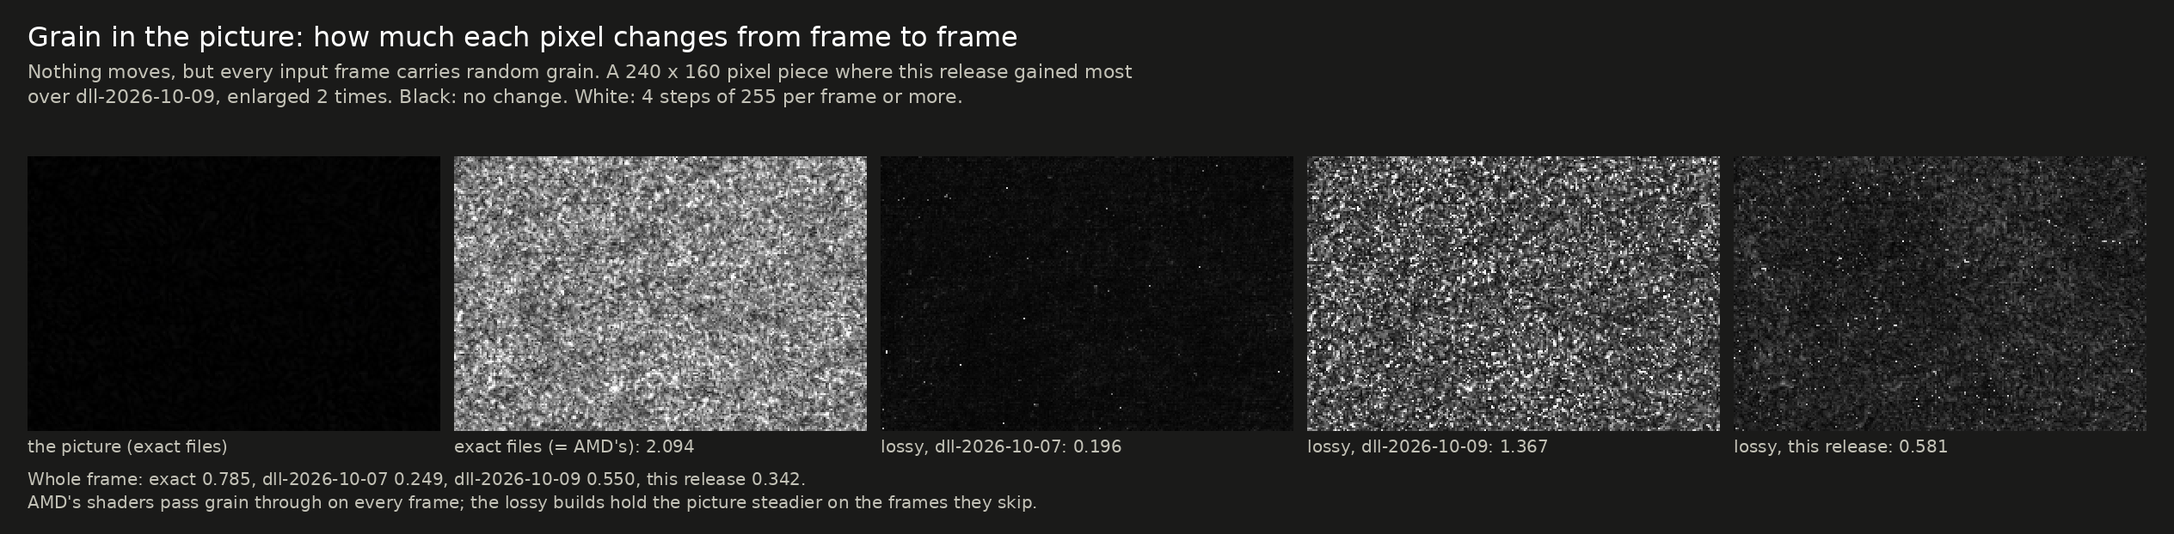
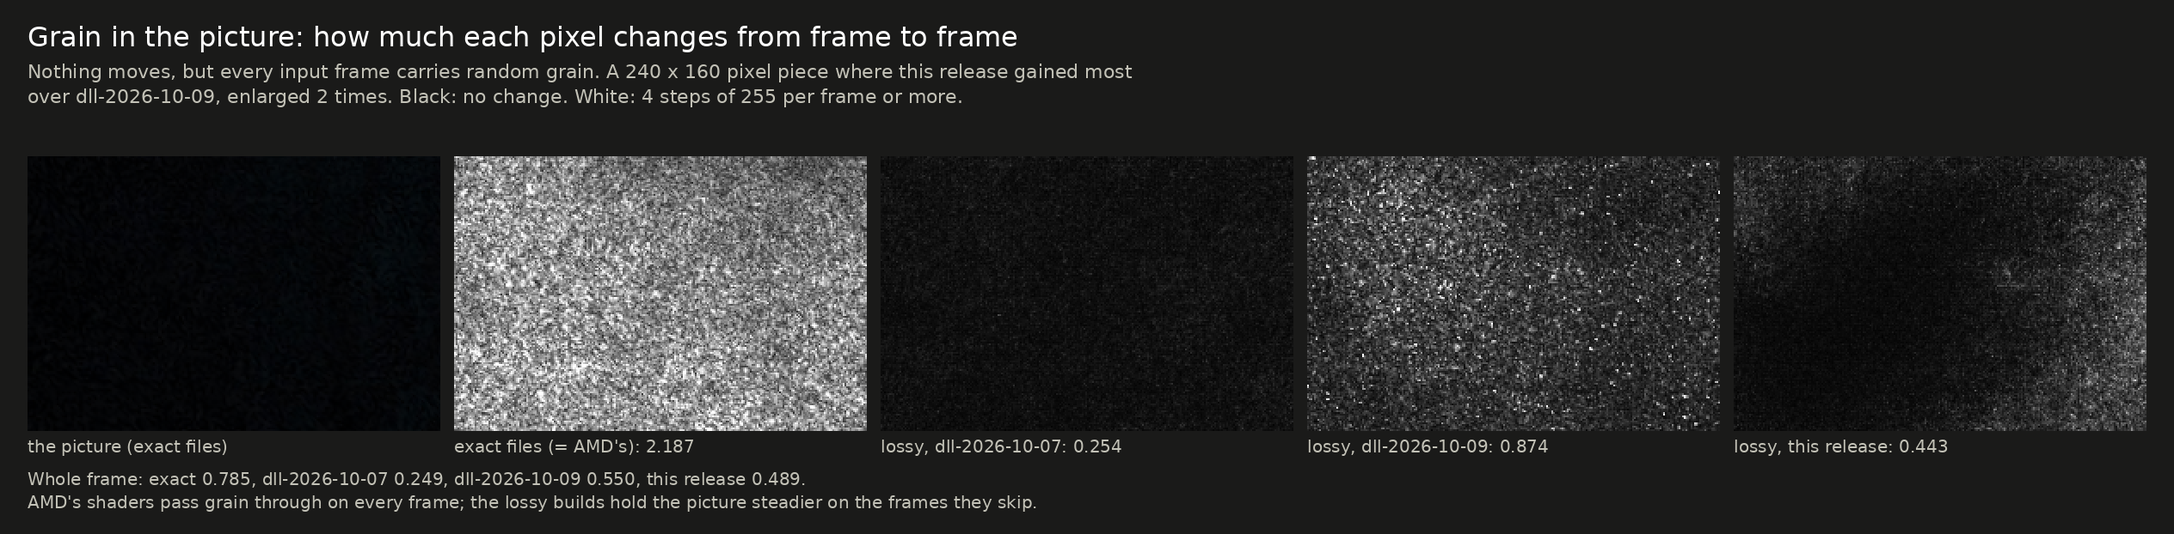
Comparison pages redone with the lossy build of dll-2026-10-12
docs/exact-vs-lossy.md: every Lossy figure and picture from this release's build.
docs/upscaler-comparison.md: lossy column, charts and crops redone; two rows for
slowly swaying foliage, run for all five upscalers.

diff --git a/docs/img/make_upscaler_comparison.py b/docs/img/make_upscaler_comparison.py
@@ -14,13 +14,13 @@ KEYS = ['fsr4', 'lossy', 'fsr3', 'helix', 'xess']
 # The measures of the radar charts, in NAMES order. kind: 'db' = accuracy in dB (higher is better), 'up' = higher is better, 'down' = lower is better.
 # (short label, full name, unit, kind, values, format)
 MEASURES = [
-    ('Still', 'Still picture: accuracy', 'dB', 'db', [44.33, 44.31, 39.94, 41.99, 42.14], '{:.2f} dB'),
+    ('Still', 'Still picture: accuracy', 'dB', 'db', [44.33, 44.30, 39.94, 41.99, 42.14], '{:.2f} dB'),
     ('Background', 'Moving background: accuracy', 'dB', 'db', [49.27, 49.07, 47.95, 46.92, 47.70], '{:.2f} dB'),
     ('Railing', 'Thin railing in motion: accuracy', 'dB', 'db', [41.82, 41.34, 38.36, 40.12, 40.86], '{:.2f} dB'),
     ('Uncovered', 'Areas a moving object has just uncovered: accuracy', 'dB', 'db', [34.48, 36.48, 29.22, 27.11, 30.20], '{:.2f} dB'),
     ('Sparks', 'Tiny fast sparks: share of their brightness shown', '%', 'up', [83, 74, 40, 79, 50], '{:.0f}%'),
-    ('Foliage', 'Leaves swaying without motion vectors: error', 'of 255', 'down', [12.1, 18.6, 16.8, 15.5, 15.5], '{:.1f}'),
-    ('At rest', 'Still picture: change per frame', 'of 255', 'down', [0.037, 0.024, 0.014, 0.020, 0.084], '{:.3f}'),
+    ('Foliage', 'Leaves swaying without motion vectors: error', 'of 255', 'down', [12.1, 18.7, 16.8, 15.5, 15.5], '{:.1f}'),
+    ('At rest', 'Still picture: change per frame', 'of 255', 'down', [0.037, 0.026, 0.014, 0.020, 0.084], '{:.3f}'),
     ('Wire, pan', 'Thin wire under a slow pan: change per frame', 'of 255', 'down', [7.2, 9.6, 8.2, 5.6, 10.1], '{:.1f}'),
     ('Speed', 'Time per upscale call at 3840x2160', 'ms', 'down', [4.76, 2.36, 1.16, 1.99, 4.98], '{:.2f} ms'),
 ]

diff --git a/docs/img/make_comparison_crops.py b/docs/img/make_comparison_crops.py
@@ -3,7 +3,7 @@
 # make_comparison_crops.py <dir>: the comparison images of docs/exact-vs-lossy.md (cmp-still.png,
 # cmp-motion.png, cmp-flicker.png, cmp-grain.png, cmp-particles.png, cmp-wires.png, cmp-plate.png, cmp-foliage-dots.png, cmp-rain.png), from test-rig output (research/pruning: fsr4img with
 # gen_inputs.py / gen_motion.py, 4K Balanced, 40 frames, the last 8 kept). <dir> holds, for X = exact (the main
-# files), prev (the lossy build of release dll-2026-10-07) and lossy (the current lossy build, release dll-2026-10-11.7):
+# files), prev (the lossy build of release dll-2026-10-07) and lossy (the current lossy build, release dll-2026-10-12):
 #   still_X/                 output_3840x2160_f032..039.raw (RGBA16F), and still_truth.npy, the true 4K image
 #   wires_exact/, wires_rel/ (the lossy build of release dll-2026-10-10), wires_lossy/, wires_truth_037.npy   frame 37 of the thin-wire scene
 #   still_r9/, grain_X/, grain_r9/   the same frames with the lossy build of release dll-2026-10-09 (r9), and of the still scene

diff --git a/docs/exact-vs-lossy.md b/docs/exact-vs-lossy.md
@@ -31,7 +31,7 @@ and only one of them keeps AMD's picture.
 > **The lossy builds change the image.** They are opt-in experiments, not the same as the main
 > files and not the same as AMD's DLL.
 
-This page describes the builds of release `dll-2026-10-11.7`: every figure in the "Lossy" columns and every picture was made again with
+This page describes the builds of release `dll-2026-10-12`: every figure in the "Lossy" columns and every picture was made again with
 its lossy build. Up to release `dll-2026-10-07` the lossy
 builds also simplified the model's arithmetic in several layers (weight folding). They no longer do,
 except for a light form of it in one layer, which keeps fine detail steady; flat areas are kept steady by a rule in the last step instead. The history of
@@ -47,7 +47,7 @@ The figure is made by [`img/make_exact_vs_lossy.py`](img/make_exact_vs_lossy.py)
 ## What the difference looks like
 
 Pieces of the test rig's 4K output with three builds side by side: the exact files, the lossy
-build of release `dll-2026-10-07` and this release's lossy build (`dll-2026-10-11.7`); the two shimmer
+build of release `dll-2026-10-07` and this release's lossy build (`dll-2026-10-12`); the two shimmer
 pictures also show release `dll-2026-10-09`, the wire picture release `dll-2026-10-10`, the plate picture release `dll-2026-10-11`, the foliage-dots picture release `dll-2026-10-11.2`, and the rain picture release `dll-2026-10-11.6`. The exact files
 give the same bytes as AMD's shaders, so their panels are also AMD's picture. **These are the
 places where the builds differ most, enlarged;** over a whole frame the differences are far
@@ -56,30 +56,30 @@ the data, not by hand: [`img/make_comparison_crops.py`](img/make_comparison_crop
 
 **At rest.** The largest difference in a still frame is on thin structures. Over the whole frame
 this release differs from the exact files by 0.10 of 255 on average, release `dll-2026-10-07` by 0.14;
-at the spot where that release was furthest off, 0.60 against 0.71.
+at the spot where that release was furthest off, 0.58 against 0.71.
 
-<img src="img/cmp-still.png" width="760" alt="Still scene, a 90 by 90 pixel piece of the 4K output enlarged four times, at the spot where the lossy build of release dll-2026-10-07 differed most from the exact files: the true image, the exact files, the lossy build of release dll-2026-10-07 and this release's lossy build, and under the two lossy panels their difference from the exact files amplified sixteen times: 0.71 and 0.60 of 255. Thin railings look slightly softer in both lossy panels.">
+<img src="img/cmp-still.png" width="760" alt="Still scene, a 90 by 90 pixel piece of the 4K output enlarged four times, at the spot where the lossy build of release dll-2026-10-07 differed most from the exact files: the true image, the exact files, the lossy build of release dll-2026-10-07 and this release's lossy build, and under the two lossy panels their difference from the exact files amplified sixteen times: 0.71 and 0.58 of 255. Thin railings look slightly softer in both lossy panels.">
 
 **Shimmer at rest.** How much each pixel changes between consecutive frames when nothing moves.
 The piece shown is the one where a lossy build is furthest above the exact files. Release
 `dll-2026-10-09` read 0.157 of 255 per frame there, against 0.126 for the exact files: with frame
 skip on AMD's unchanged network, bright flat areas (the wall and sky in this piece) moved more
-from a skipped frame to the next full one. This release reads 0.053, less than half of the exact files' figure and of
+from a skipped frame to the next full one. This release reads 0.058, less than half of the exact files' figure and of
 release `dll-2026-10-07`'s (0.111): in the last step, corrections too small to matter are skipped. Over the whole frame:
-exact 0.037, `dll-2026-10-07` 0.033, `dll-2026-10-09` 0.036, this release 0.024.
+exact 0.037, `dll-2026-10-07` 0.033, `dll-2026-10-09` 0.036, this release 0.026.
 
-<img src="img/cmp-flicker.png" width="760" alt="Shimmer at rest: a 240 by 160 pixel piece of the still scene showing a bright wall, sky and a water tank, and four maps of how much each pixel changes from frame to frame: the exact files (mean 0.126 of 255), the lossy build of release dll-2026-10-07 (0.111), of release dll-2026-10-09 (0.157) and of this release (0.053). Edges look alike in all four; the flat wall and sky carry a faint texture in the first three maps and are nearly black in this release's.">
+<img src="img/cmp-flicker.png" width="760" alt="Shimmer at rest: a 240 by 160 pixel piece of the still scene showing a bright wall, sky and a water tank, and four maps of how much each pixel changes from frame to frame: the exact files (mean 0.126 of 255), the lossy build of release dll-2026-10-07 (0.111), of release dll-2026-10-09 (0.157) and of this release (0.058). Edges look alike in all four; the flat wall and sky carry a faint texture in the first three maps and are nearly black in this release's.">
 
 **Grain in the picture.** The same still scene with random grain added to every input frame, as a
 game with film grain or noisy reflections gives FSR. AMD's shaders pass the grain on, so their
 picture changes most. The lossy builds hold the picture steadier on the frames they skip, but in
 release `dll-2026-10-09` the test that lets sparks through also let grain through, and the picture
 changed more than twice as much as in the release before (0.550 of 255 per frame over the whole
-frame, against 0.249). This release reads 0.342 (0.292 in `dll-2026-10-11.3`, whose fold of the first pass held it back further). The piece shown is the one where it gained most.
+frame, against 0.249). This release reads 0.489: it gave up some of that steadiness so that skipped frames can follow slowly swaying leaves, which the network marks the way it marks some grain (0.342 in `dll-2026-10-11.7`, 0.292 in `dll-2026-10-11.3`, whose fold of the first pass held it back further). The piece shown is the one where it gained most.
 The grain is synthetic and of moderate strength (6 of 255). Strong grain gets through more: at 10 of 255
-this release reads 1.06 against 0.94 for release `dll-2026-10-10` and 1.72 for AMD's shaders.
+this release reads 1.29 against 0.94 for release `dll-2026-10-10` and 1.72 for AMD's shaders.
 
-<img src="img/cmp-grain.png" width="760" alt="Grain in the picture: a 240 by 160 pixel piece of a dark flat area of the still scene with random grain in every input frame, and four maps of how much each pixel changes from frame to frame: the exact files (mean 2.094 of 255, a dense bright speckle), the lossy build of release dll-2026-10-07 (0.196, nearly black), of release dll-2026-10-09 (1.367, a dense speckle again) and of this release (0.581, dark with scattered points).">
+<img src="img/cmp-grain.png" width="760" alt="Grain in the picture: a 240 by 160 pixel piece of a dark flat area of the still scene with random grain in every input frame, and four maps of how much each pixel changes from frame to frame: the exact files (mean 2.187 of 255, a dense bright speckle), the lossy build of release dll-2026-10-07 (0.254, nearly black), of release dll-2026-10-09 (0.874, a speckle with bright points) and of this release (0.443, dark in the middle with a fainter speckle toward the edges).">
 
 **In motion, on a skipped frame.** Camera panning as if at 60 FPS. Thin bars in front of a moving
 background are where frame skip is weakest: in both lossy panels the bars are a little rougher
@@ -96,7 +96,7 @@ Release `dll-2026-10-07` kept them where they had been a frame ago, or showed th
 other frame; since `dll-2026-10-09` they are taken from the new frame, and since `dll-2026-10-11` also
 wherever the network itself had asked for the new frame on the frame before.
 
-<img src="img/cmp-particles.png" width="760" alt="Particles drawn without motion vectors on a skipped frame, camera still, two 72 by 72 pixel pieces enlarged five times, each shown as true image, exact files, the lossy build of release dll-2026-10-07 and this release's lossy build. Tiny fast sparks: release dll-2026-10-07 shows one of three sparks displaced and one nearly gone (error 3.3 of 255); this release shows all three in place (0.9; exact files 0.8). Larger particles: release dll-2026-10-07 shows them displaced and broken up (15.0); this release shows them in place and smooth, with slightly rough edges (1.4; exact files 0.7).">
+<img src="img/cmp-particles.png" width="760" alt="Particles drawn without motion vectors on a skipped frame, camera still, two 72 by 72 pixel pieces enlarged five times, each shown as true image, exact files, the lossy build of release dll-2026-10-07 and this release's lossy build. Tiny fast sparks: release dll-2026-10-07 shows one of three sparks displaced and one nearly gone (error 3.4 of 255); this release shows all three in place (1.0; exact files 0.8). Larger particles: release dll-2026-10-07 shows them displaced and broken up (15.1); this release shows them in place and smooth, with slightly rough edges (1.5; exact files 0.7).">
 
 - **In place, and nearly clean.** In this release's panels the sparks and the larger particles sit where they
   should, and the seams that crossed large particles in the two releases before are gone; their edges are slightly
@@ -216,12 +216,12 @@ sample for a spark, because it is far brighter than everything the previous pict
 Since release `dll-2026-10-11.3` that rule asks for twice the distance. The test rig only showed the dots once its inputs were sampled as
 a game samples them, unsmoothed.
 
-<img src="img/cmp-foliage-dots.png" width="760" alt="Dark green leaves in front of a pale sky on a frame that skips the neural network, a 200 by 130 pixel piece enlarged three times. The true image shows sharp leaves. The exact files show them soft and clean (1 single bright pixel inside the leaves in this piece). The lossy build of release dll-2026-10-11.2 shows the same leaves sprinkled with single-pixel specks (26). This release's lossy build shows far fewer (6).">
+<img src="img/cmp-foliage-dots.png" width="760" alt="Dark green leaves in front of a pale sky on a frame that skips the neural network, a 200 by 130 pixel piece enlarged three times. The true image shows sharp leaves. The exact files show them soft and clean (1 single bright pixel inside the leaves in this piece). The lossy build of release dll-2026-10-11.2 shows the same leaves sprinkled with single-pixel specks (26). This release's lossy build shows far fewer (9).">
 
 - In the test scene (dense dark leaves swaying in front of a bright sky, hard-sampled inputs) single bright pixels in the
   leaves number 0.95 per thousand dark pixels on skipped frames, against 2.40 in `dll-2026-10-11.2` and 0.57 with AMD's
   shaders. While the camera pans: 0.35 against 0.70; AMD's 0.33.
-- With leaves that do not move the count is at AMD's level (1.72 against 1.72), as it was before.
+- With leaves that do not move the count is close to AMD's (1.81 against 1.72; it was 1.72 before release `dll-2026-10-12`).
 - **The cost:** fast sparks are shown about one point in a hundred dimmer, and large glowing particles under a pan are
   13% further from the true image. A stricter setting still would have removed the dots down to AMD's level and cost
   three times as much in particles ([the settings compared](../research/frame-skip#bright-dots-in-foliage-release-dll-2026-10-113)).
@@ -344,12 +344,12 @@ Five repairs keep the rest honest (the fifth is the one just described):
 
 ## What the lossy builds cost, measured
 
-> **Release `dll-2026-10-12` changed three things on this page:** slowly swaying foliage (the table under "Moving foliage" below has the new rows), film grain
-> (the grain figures below are the new ones), and slightly more change per frame at rest (a flat area 0.053 to 0.058, thin vertical detail 0.305 to 0.316). Every other figure
-> and every picture is from `dll-2026-10-11.7`'s build, which is equal in everything that moves.
+> **Updated for release `dll-2026-10-12`.** Every figure in the "Lossy" columns and every picture was made again with this release's build. Against the build this page
+> showed before (`dll-2026-10-11.7`): slowly swaying foliage is closer to AMD's (the table under "Moving foliage" below); film grain is less steady; at rest the picture
+> changes slightly more per frame (a flat area 0.053 to 0.058, thin vertical detail 0.305 to 0.316). Everything that moves is equal or moved in the last digit.
 > [Foliage and the network's memory](../research/frame-skip#foliage-and-the-networks-memory-release-dll-2026-10-12).
 >
-> **Updated for release `dll-2026-10-11.7`.** Against the build this page showed before (`dll-2026-10-11.4`): rain and single over-bright
+> **For release `dll-2026-10-11.7`**, against the build before it (`dll-2026-10-11.4`): rain and single over-bright
 > pixels are no longer shown as sparks; thin wires in a camera pan are dimmer and steadier; fast sparks are shown a point or two
 > dimmer; with auto exposure on, bright flat areas no longer shimmer. Everything else moved in the last digit or not at all.
 > [The rain rule](../research/frame-skip#rain-and-other-thin-streaks-release-dll-2026-10-117).
@@ -359,16 +359,16 @@ Test scene at 4K Balanced. "Lossy" is the release build: frame skip on AMD's mod
 
 | | AMD's (= exact files) | Release `dll-2026-10-07` | Lossy | Lossy, against AMD's |
 |---|---|---|---|---|
-| Still picture against the true image | 44.33 dB | 43.60 dB | 44.31 dB | within 0.05%; 0.5% more error |
-| Thin vertical / horizontal detail in the still picture | 27.09 / 28.23 dB | 25.89 / 27.64 dB | 26.79 / 28.19 dB | 0.30 / 0.04 dB below |
-| Flicker at rest on fine detail (lower is steadier) | 0.110 | 0.109 | 0.086 | 22% less |
-| Flicker at rest, worst flat piece of the scene | 0.126 | 0.111 | 0.053 | 58% less |
-| Frame-to-frame change on thin vertical detail at rest | 0.364 | 0.380 | 0.305 | 16% less |
+| Still picture against the true image | 44.33 dB | 43.60 dB | 44.30 dB | within 0.07%; 0.7% more error |
+| Thin vertical / horizontal detail in the still picture | 27.09 / 28.23 dB | 25.89 / 27.64 dB | 26.85 / 28.16 dB | 0.24 / 0.07 dB below |
+| Flicker at rest on fine detail (lower is steadier) | 0.110 | 0.109 | 0.088 | 20% less |
+| Flicker at rest, worst flat piece of the scene | 0.126 | 0.111 | 0.058 | 54% less |
+| Frame-to-frame change on thin vertical detail at rest | 0.364 | 0.380 | 0.316 | 13% less |
 | Moving scene: background | 49.27 dB | 48.61 dB | 49.07 dB | within 0.4%; 5% more error |
 | Moving scene: thin railing | 41.82 dB | 41.12 dB | 41.34 dB | within 1.1%; 12% more error |
 | Moving scene: areas a moving object has just uncovered | 34.48 dB | 36.56 dB | 36.48 dB | 6% above; 37% less error |
-| Still camera, objects moving: thin railing | 42.20 dB | 40.99 dB | 41.22 dB | within 2.3%; 25% more error |
-| Still camera, objects moving: just-uncovered areas | 32.62 dB | 30.93 dB | 31.67 dB | within 2.9%; 24% more error |
+| Still camera, objects moving: thin railing | 42.20 dB | 40.99 dB | 41.17 dB | within 2.4%; 27% more error |
+| Still camera, objects moving: just-uncovered areas | 32.62 dB | 30.93 dB | 31.68 dB | within 2.9%; 24% more error |
 | A wire half a pixel wide, camera still: change per frame along it | 2.9 | 15.7 | 2.8 | level |
 | The same wire under a slow pan: change per frame | 7.2 | not measured | 9.6 | 1.3 times |
 | The same wire under a slow pan: brightness (true value 111) | 100 | not measured | 53 | about half |
@@ -376,9 +376,9 @@ Test scene at 4K Balanced. "Lossy" is the release build: frame skip on AMD's mod
 | Single bright pixels in swaying foliage against sky, camera still (per thousand dark pixels) | 0.57 | not measured | 0.95 | 1.7 times |
 | The same while the camera pans | 0.33 | not measured | 0.35 | 6% more |
 | Rain, faint streaks one rendered pixel wide: output pixels more than 20 of 255 too bright, per million | 0 to 1 | 5 to 114 | 0 | level |
-| Single over-bright pixels in the game's frame: the same count | 25 | not measured | 14 | level |
-| A region dimming by 1% per frame, nothing moving: frames behind, bright / dark flat areas | 0.6 / 3.0 | not measured | 0.8 / 2.6 | 0.2 more / 0.4 less |
-| Large particles without motion vectors, skipped frames: error | 0.66 | not measured | 1.37 | 2.1 times |
+| Single over-bright pixels in the game's frame: the same count | 25 | not measured | 17 | level |
+| A region dimming by 1% per frame, nothing moving: frames behind, bright / dark flat areas | 0.6 / 3.0 | not measured | 0.8 / 2.4 | 0.2 more / 0.6 less |
+| Large particles without motion vectors, skipped frames: error | 0.66 | not measured | 1.35 | 2.0 times |
 | Slow embers / fast sparks shown on skipped frames | 81% / 83% | not measured / 16% | 81% / 74% | level / 9 points below |
 | Revealed strip when a pan starts on a skipped frame | 100% of true brightness | 100% | 99 to 100% | the same |
 
@@ -391,13 +391,13 @@ AMD's is. The exact files are 100% of AMD's in every row: the same bytes.
 - **The figures at rest are for auto exposure off.** With FSR's auto-exposure option on, the build of release
   `dll-2026-10-11.4` shimmered more than AMD's shaders in bright flat areas. Release `dll-2026-10-11.5` removed the cause
   ([how](../research/frame-skip#shimmer-with-auto-exposure-on-the-history-store-release-dll-2026-10-115)): with it on, the worst flat
-  piece of the still scene changes 0.093 per frame against 0.213 with AMD's shaders, bright flat areas 0.051 against 0.186,
-  the whole frame 0.029 against 0.041 and fine detail 0.097 against 0.125. Two things remain behind AMD's with it on: slow
-  fades show in bright flat areas about a third of a frame later (1.05 against 0.72 frames behind when darkening, 0.87 against
-  0.46 when brightening), and strong film grain is passed on a little more (0.37 against 0.36 and 0.51 against 0.48 change per frame
-  for grain of 10 and 15 of 255, and 1.2 to 2.4 dB less accurate). Found and measured on Linux; not measured under Windows.
-- **Fine detail at rest shimmers less than with AMD's shaders** (0.086 against 0.110), and so
-  does thin vertical detail alone (16% less; it was 4% more in release `dll-2026-10-09`).
+  piece of the still scene changes 0.104 per frame against 0.213 with AMD's shaders, bright flat areas 0.053 against 0.186,
+  the whole frame 0.030 against 0.041 and fine detail 0.100 against 0.125. Two things remain behind AMD's with it on: slow
+  fades show in bright flat areas about a third of a frame later (1.04 against 0.72 frames behind when darkening, 0.86 against
+  0.46 when brightening), and film grain of medium strength and above is passed on more (0.45 against 0.36 and 0.51 against 0.48 change per frame
+  for grain of 10 and 15 of 255, and 1.3 to 2.5 dB less accurate). Found and measured on Linux; not measured under Windows.
+- **Fine detail at rest shimmers less than with AMD's shaders** (0.088 against 0.110), and so
+  does thin vertical detail alone (13% less; it was 4% more in release `dll-2026-10-09`).
 - **The still picture is within 0.02 dB of AMD's** (0.7 dB below in release `dll-2026-10-07`, 0.15 to 0.2 dB below up to
   `dll-2026-10-11.3`). Most of that last gap was the folds, not frame skip.
 - **Just-uncovered areas score above AMD's in the panning scene** (36.48 against 34.48 dB; 36.45 in
@@ -414,7 +414,7 @@ AMD's is. The exact files are 100% of AMD's in every row: the same bytes.
   | 12,6 / 6,−6 | 1.07 | 1.08 | level |
   | still camera / 8,0 | 1.07 | 1.06 | level |
   | still camera / 6,−6 | 1.74 | 1.90 | 9% more |
-  | still camera / −6,6 | 4.01 | 4.65 | 16% more: a sliver one or two pixels wide beside the trailing edge |
+  | still camera / −6,6 | 4.01 | 4.63 | 15% more: a sliver one or two pixels wide beside the trailing edge |
   | −16,4 / 8,0 (fast pan against the object's motion) | 3.11 | 5.01 | 61% more |
 
   In the last case nothing is left behind: the strip is recognized and shown from the new frame,

diff --git a/docs/upscaler-comparison.md b/docs/upscaler-comparison.md
@@ -10,8 +10,9 @@ other projects.
 
 - **Picture accuracy:** the lossy DLL stays close to AMD's FSR 4.1.1 and ahead of the other three: within 0.2 dB of FSR 4
   on a still picture, where XeSS, HelixSR and FSR 3.1 are 2 to 4 dB behind.
-- **Where the lossy DLL is last of the five:** leaves that sway without motion vectors. A very thin wire in a camera pan it
-  draws dimmer than any of the others. In film grain it is busier than FSR 3.1, HelixSR and XeSS (and far steadier than FSR 4).
+- **Where the lossy DLL is last of the five:** leaves that sway fast without motion vectors (with slowly swaying leaves it is
+  second after FSR 4). A very thin wire in a camera pan it draws dimmer than any of the others. In film grain it is busier
+  than FSR 3.1, HelixSR and XeSS (and steadier than FSR 4).
 - **Rain** drawn without motion vectors is where the five differ most to the eye: HelixSR shows the streaks as the game drew
   them, FSR 3.1 shows part of them, and FSR 4, the lossy DLL and XeSS blend faint rain almost entirely into the picture.
 - **Speed on this card:** FSR 3.1 is the fastest by a wide margin, then HelixSR, then the lossy DLL, then this project's
@@ -36,7 +37,7 @@ of the picture where the five differ most from each other, picked by that script
 | Name here | What it is | Version | Settings |
 |---|---|---|---|
 | FSR 4.1.1 | AMD's FSR 4 (INT8 model) with AMD's own shaders. This project's exact DLL gives the same picture, byte for byte | 4.1.1 | defaults |
-| Lossy | this project's lossy DLL: FSR 4.1.1's network on every other frame | release `dll-2026-10-11.7` (auto exposure is off on this page) | defaults |
+| Lossy | this project's lossy DLL: FSR 4.1.1's network on every other frame | release `dll-2026-10-12` (auto exposure is off on this page) | defaults |
 | FSR 3.1 | AMD's FSR 3.1 upscaler, from the same AMD file as FSR 4.1.1 | 3.1.5 | defaults |
 | HelixSR | a community upscaler that runs NVIDIA's DLSS "Model E" network as ordinary compute shaders behind FSR 3.1's interface | 1.2.0 | defaults (its main network, sharpening off) |
 | XeSS | Intel's XeSS, in the form that runs on any graphics card | 2.0.2 | defaults, no auto exposure |
@@ -56,13 +57,15 @@ Against the true image; higher dB is better, lower error is better.
 
 | Scene | FSR 4.1.1 | Lossy | FSR 3.1 | HelixSR | XeSS |
 |---|---|---|---|---|---|
-| Still picture | 44.33 dB | 44.31 dB | 39.94 dB | 41.99 dB | 42.14 dB |
+| Still picture | 44.33 dB | 44.30 dB | 39.94 dB | 41.99 dB | 42.14 dB |
 | Moving scene: background | 49.27 dB | 49.07 dB | 47.95 dB | 46.92 dB | 47.70 dB |
 | Moving scene: thin railing | 41.82 dB | 41.34 dB | 38.36 dB | 40.12 dB | 40.86 dB |
 | Moving scene: areas a moving object has just uncovered | 34.48 dB | 36.48 dB | 29.22 dB | 27.11 dB | 30.20 dB |
 | A still bright object over fast ground at the same depth: error where its old image lands, of 255 | 1.62 | 2.68 | 3.09 | 2.27 | 2.15 |
-| Leaves swaying without motion vectors, camera still: error of 255 | 12.1 | 18.6 | 16.8 | 15.5 | 15.5 |
+| Leaves swaying without motion vectors, camera still: error of 255 | 12.1 | 18.7 | 16.8 | 15.5 | 15.5 |
 | The same, camera panning | 10.7 | 18.0 | 15.4 | 16.8 | 16.8 |
+| Leaves swaying at two thirds of that speed, camera still | 10.8 | 13.1 | 16.7 | 14.1 | 14.2 |
+| Leaves swaying at half that speed, camera still | 10.2 | 11.9 | 16.6 | 13.5 | 13.1 |
 | Still leaves, camera panning | 6.2 | 7.5 | 7.6 | 8.2 | 7.4 |
 
 - The lossy DLL is the most accurate after FSR 4 in the first four rows, and the best of all five in just-uncovered areas.
@@ -74,8 +77,12 @@ Against the true image; higher dB is better, lower error is better.
 The lossy DLL is the only one of the five that leaves a visible trace of the object on the ground here, faint as it is. The object
 and the ground are at the same depth in this scene; with distinct depths the lossy DLL is at FSR 4's level (1.42 against 1.58).
 
-- **In swaying foliage it is the least accurate of the five.** Its picture there is averaged over about one more frame
-  than FSR 4's ([why](exact-vs-lossy.md#limits-of-the-lossy-builds)).
+- **In foliage it depends on how fast the leaves move.** At the rig's usual sway speed the lossy DLL is the least accurate of
+  the five: FSR 4's network needs its memory of the frame before to recognize motion without vectors, and with the network
+  running on every other frame that memory is too old ([why](../research/frame-skip#foliage-and-the-networks-memory-release-dll-2026-10-12)).
+  At two thirds and at half of that speed it is second only to FSR 4, ahead of XeSS, HelixSR and FSR 3.1. The two slower rows came
+  with release `dll-2026-10-12`, which made skipped frames use the network's verdict there (the release before scored 15.0 and 13.5).
+  The figures are for the frames that skip the network; on the others the lossy DLL reads 12.1 and 11.0.
 
 The three pictures below are of the scenes in the first rows of the table and of the foliage rows.
 
@@ -83,7 +90,7 @@ The three pictures below are of the scenes in the first rows of the table and of
 
 <img src="img/cmp5-motion.png" width="760" alt="Moving scene, camera panning, a piece of the fine diagonal stripes on a moving object enlarged four times. True image: thin sharp white stripes. FSR 4.1.1 (error 23.7 of 255) and the lossy DLL (23.3) show them thin and even; FSR 3.1 (34.4) thicker and softer; HelixSR and XeSS (29.9 each) in between.">
 
-<img src="img/cmp5-foliage.png" width="760" alt="Leaves swaying without motion vectors, camera still, a piece enlarged four times. True image: sharp small dark and light green leaves against a pale sky. FSR 4.1.1 (error 12.4 of 255) is the closest; the lossy DLL (19.8) shows the leaves softer and fatter; FSR 3.1 (17.8), HelixSR (16.8) and XeSS (13.2) are between the two.">
+<img src="img/cmp5-foliage.png" width="760" alt="Leaves swaying without motion vectors, camera still, a piece enlarged four times. True image: sharp small dark and light green leaves against a pale sky. FSR 4.1.1 (error 13.9 of 255) is the closest; the lossy DLL (22.4) shows the leaves softer and fatter; FSR 3.1 (19.7), HelixSR (18.4) and XeSS (19.7) are between the two.">
 
 ## Things a game draws without motion vectors
 
@@ -92,7 +99,7 @@ that skip the network; the same alternate frames are measured for the others.
 
 | Scene | FSR 4.1.1 | Lossy | FSR 3.1 | HelixSR | XeSS |
 |---|---|---|---|---|---|
-| Large glowing particles: error of 255 | 0.66 | 1.37 | 3.21 | 0.77 | 1.01 |
+| Large glowing particles: error of 255 | 0.66 | 1.35 | 3.21 | 0.77 | 1.01 |
 | Tiny fast sparks: share of their brightness shown | 83% | 74% | 40% | 79% | 50% |
 | Tiny slow embers: share shown | 81% | 81% | 53% | 79% | 69% |
 
@@ -101,7 +108,7 @@ loses more than half of the small ones.
 
 <img src="img/cmp5-big.png" width="760" alt="Large glowing particles drawn without motion vectors, camera still, a piece with two of them enlarged four times, as true image and from the five upscalers. FSR 4.1.1 (error 0.4 of 255) and HelixSR (0.7) show both round and smooth; the lossy DLL (0.7) shows them in place with a slightly rough edge on the smaller one; FSR 3.1 (1.5) shows faint arcs across them; XeSS (4.9) shows both dimmed with a fine checkered pattern.">
 
-The piece is the one where the five differ most, so it flatters nobody: over the whole scene XeSS scores 1.01 and the lossy DLL 1.37 (the table above).
+The piece is the one where the five differ most, so it flatters nobody: over the whole scene XeSS scores 1.01 and the lossy DLL 1.35 (the table above).
 
 <img src="img/cmp5-sparks.png" width="760" alt="Tiny fast sparks drawn without motion vectors, camera still, a piece enlarged five times with five sparks in it. True image, then FSR 4.1.1 (error 0.6 of 255) and HelixSR (0.7) show all five round and bright; the lossy DLL (0.7) shows all five, slightly blocky; FSR 3.1 (1.4) shows them small, dim and one smeared into a streak; XeSS (1.6) shows them faint.">
 
@@ -133,19 +140,20 @@ How much the picture changes from one frame to the next where it should not, in 
 
 | Scene | FSR 4.1.1 | Lossy | FSR 3.1 | HelixSR | XeSS |
 |---|---|---|---|---|---|
-| Still picture, whole frame | 0.037 | 0.024 | 0.014 | 0.020 | 0.084 |
+| Still picture, whole frame | 0.037 | 0.026 | 0.014 | 0.020 | 0.084 |
 | Moving scene: background | 0.079 | 0.024 | 0.077 | 0.193 | 0.085 |
 | A wire half a pixel wide, camera still | 2.9 | 2.8 | 2.3 | 2.4 | 4.2 |
 | The same wire under a slow pan | 7.2 | 9.6 | 8.2 | 5.6 | 10.1 |
-| Still picture with grain of 6 of 255 | 0.785 | 0.342 | 0.162 | 0.213 | 0.182 |
-| Still picture with grain of 10 of 255 | 1.724 | 1.056 | 0.308 | 0.300 | 0.228 |
+| Still picture with grain of 6 of 255 | 0.785 | 0.489 | 0.162 | 0.213 | 0.182 |
+| Still picture with grain of 10 of 255 | 1.724 | 1.292 | 0.308 | 0.300 | 0.228 |
 
 - The lossy DLL has the steadiest moving background of the five.
 - **A thin wire under a slow pan is its weakest steadiness case:** a third more flicker than FSR 4, and more than any of the
   others but XeSS. It also draws that wire dimmer than any of them: 53 of 255 against a true 111, where FSR 4 shows 100, XeSS 90,
   FSR 3.1 121 and HelixSR 135.
-- **Grain:** FSR 4 passes grain on almost unchanged. The lossy DLL holds it back on the frames it skips, but FSR 3.1, HelixSR
-  and XeSS all hold it back further.
+- **Grain:** FSR 4 passes grain on almost unchanged. The lossy DLL holds some of it back on the frames it skips, but FSR 3.1, HelixSR
+  and XeSS all hold it back much further. Release `dll-2026-10-12` gave up steadiness here for the slow-foliage rows above (the
+  release before read 0.342 and 1.056).
 - Steadier is not always more accurate. FSR 3.1 has the steadiest still picture and the least accurate one. The wire also
   shows this with the camera still: HelixSR draws it brighter than the true image (143 of 255 against a true 111), FSR 4 and the lossy DLL
   dimmer (67 and 66), XeSS and FSR 3.1 in between (96 and 91).
@@ -167,7 +175,8 @@ Graphics-card time for one upscale call, in milliseconds, at the same render rat
   the same way.
 - The lossy figure is an average over the two kinds of frame: at 4K, 3.24 ms when the network runs and 1.44 ms when it is skipped.
   It was timed with the build of release `dll-2026-10-11.4`; the releases since changed only the last shader, and with
-  `dll-2026-10-11.6` the whole upscaler timed 2.37 ms in the same program.
+  `dll-2026-10-11.6` the whole upscaler timed 2.37 ms in the same program. Release `dll-2026-10-12`'s last shader takes 0.01 to
+  0.02 ms more per frame when timed alone; the whole upscaler was not timed again.
 - XeSS runs a different, slower network on cards that are not Intel's than on Intel Arc. These figures say nothing about XeSS on Arc.
 - All of this is under Proton on Linux. On Windows the same card's FSR 4.1.1 timings differ
   ([what is known](results.md)).

diff --git a/README.md b/README.md
@@ -111,12 +111,13 @@ More games and resolutions: [all results](docs/results.md).
 > - **The price:** film grain flickers more than in the last releases. If foliage did not bother you and your games use
 >   film grain, there is no need to update.
 > - **[The lossy DLL beside FSR 3.1, HelixSR and XeSS](docs/upscaler-comparison.md):** the same test scenes and the same
->   timing for all five, with one chart per upscaler and side-by-side crops. It was made with the build of
->   `dll-2026-10-11.7`; this release differs from it in the foliage and grain figures given below.
+>   timing for all five, redone with this release, with one chart per upscaler and side-by-side crops. It shows where the
+>   lossy DLL leads (accuracy close to FSR 4, areas a moving object has just uncovered, and now slowly swaying foliage,
+>   where it is second only to FSR 4) and where it is weakest (fast-moving foliage, a thin wire in a camera pan, film grain).
 
 <picture>
   <source media="(prefers-color-scheme: dark)" srcset="docs/img/cmp5-radar2-dark.svg">
-  <img src="docs/img/cmp5-radar2-light.svg" width="760" alt="Two radar charts with nine spokes each, the lossy DLL and AMD's FSR 4.1.1. On every spoke the best of five upscalers would reach the outer ring, so a larger shape is better. Lossy against FSR 4.1.1: still picture 44.31 against 44.33 dB, moving background 49.07 against 49.27 dB, thin railing 41.34 against 41.82 dB, just-uncovered areas 36.48 against 34.48 dB, tiny fast sparks shown 74% against 83%, swaying foliage error 18.6 against 12.1 of 255, change per frame at rest 0.024 against 0.037, thin wire in a slow pan 9.6 against 7.2, time per call at 4K 2.36 against 4.76 ms.">
+  <img src="docs/img/cmp5-radar2-light.svg" width="760" alt="Two radar charts with nine spokes each, the lossy DLL and AMD's FSR 4.1.1. On every spoke the best of five upscalers would reach the outer ring, so a larger shape is better. Lossy against FSR 4.1.1: still picture 44.30 against 44.33 dB, moving background 49.07 against 49.27 dB, thin railing 41.34 against 41.82 dB, just-uncovered areas 36.48 against 34.48 dB, tiny fast sparks shown 74% against 83%, swaying foliage error 18.7 against 12.1 of 255, change per frame at rest 0.026 against 0.037, thin wire in a slow pan 9.6 against 7.2, time per call at 4K 2.36 against 4.76 ms.">
 </picture>
 
 Made-up test scenes on one graphics card; [the comparison page](docs/upscaler-comparison.md) has the same chart for FSR 3.1, HelixSR and XeSS, the figures, and the scenes the lossy DLL does worst in.
